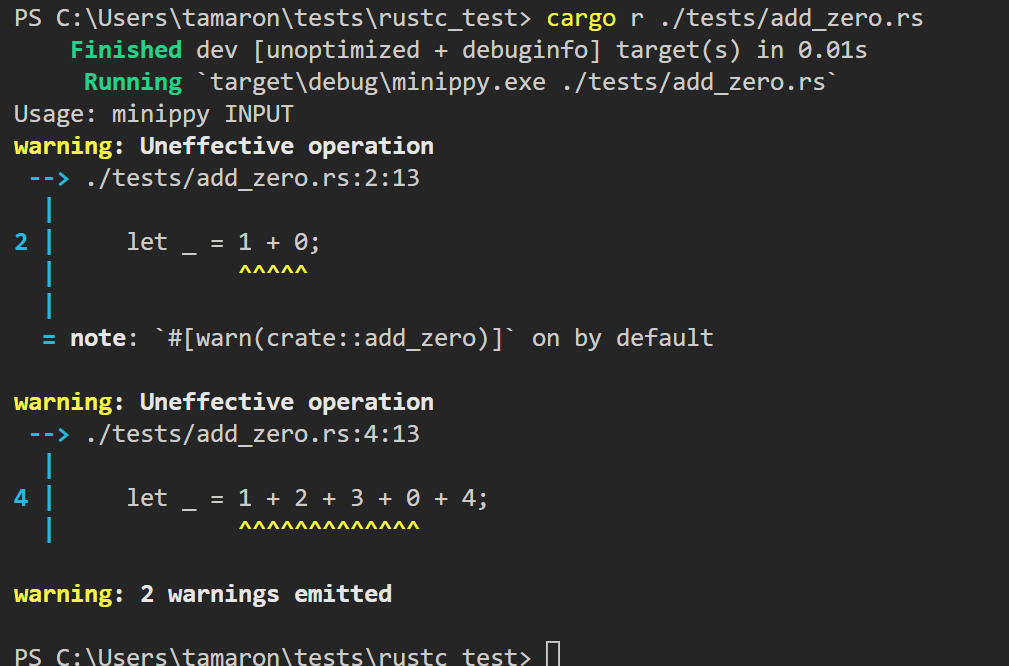
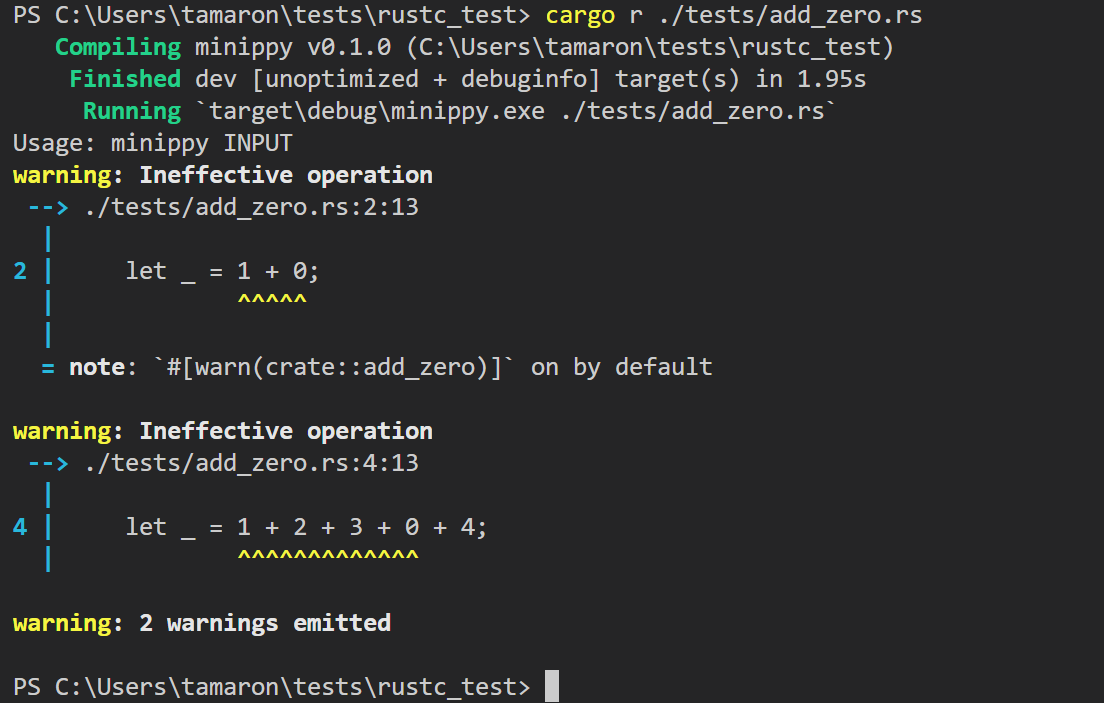
fix typo

diff --git a/src/main.rs b/src/main.rs
@@ -90,7 +90,7 @@ impl<'tcx> LateLintPass<'tcx> for AddZero {
             && (is_const_zero(lhs) || is_const_zero(rhs))
         {
             cx.struct_span_lint(ADD_ZERO, expr.span, |diag| {
-                let mut diag = diag.build("Uneffective operation");
+                let mut diag = diag.build("Ineffective operation");
                 diag.emit();
             });
         }
